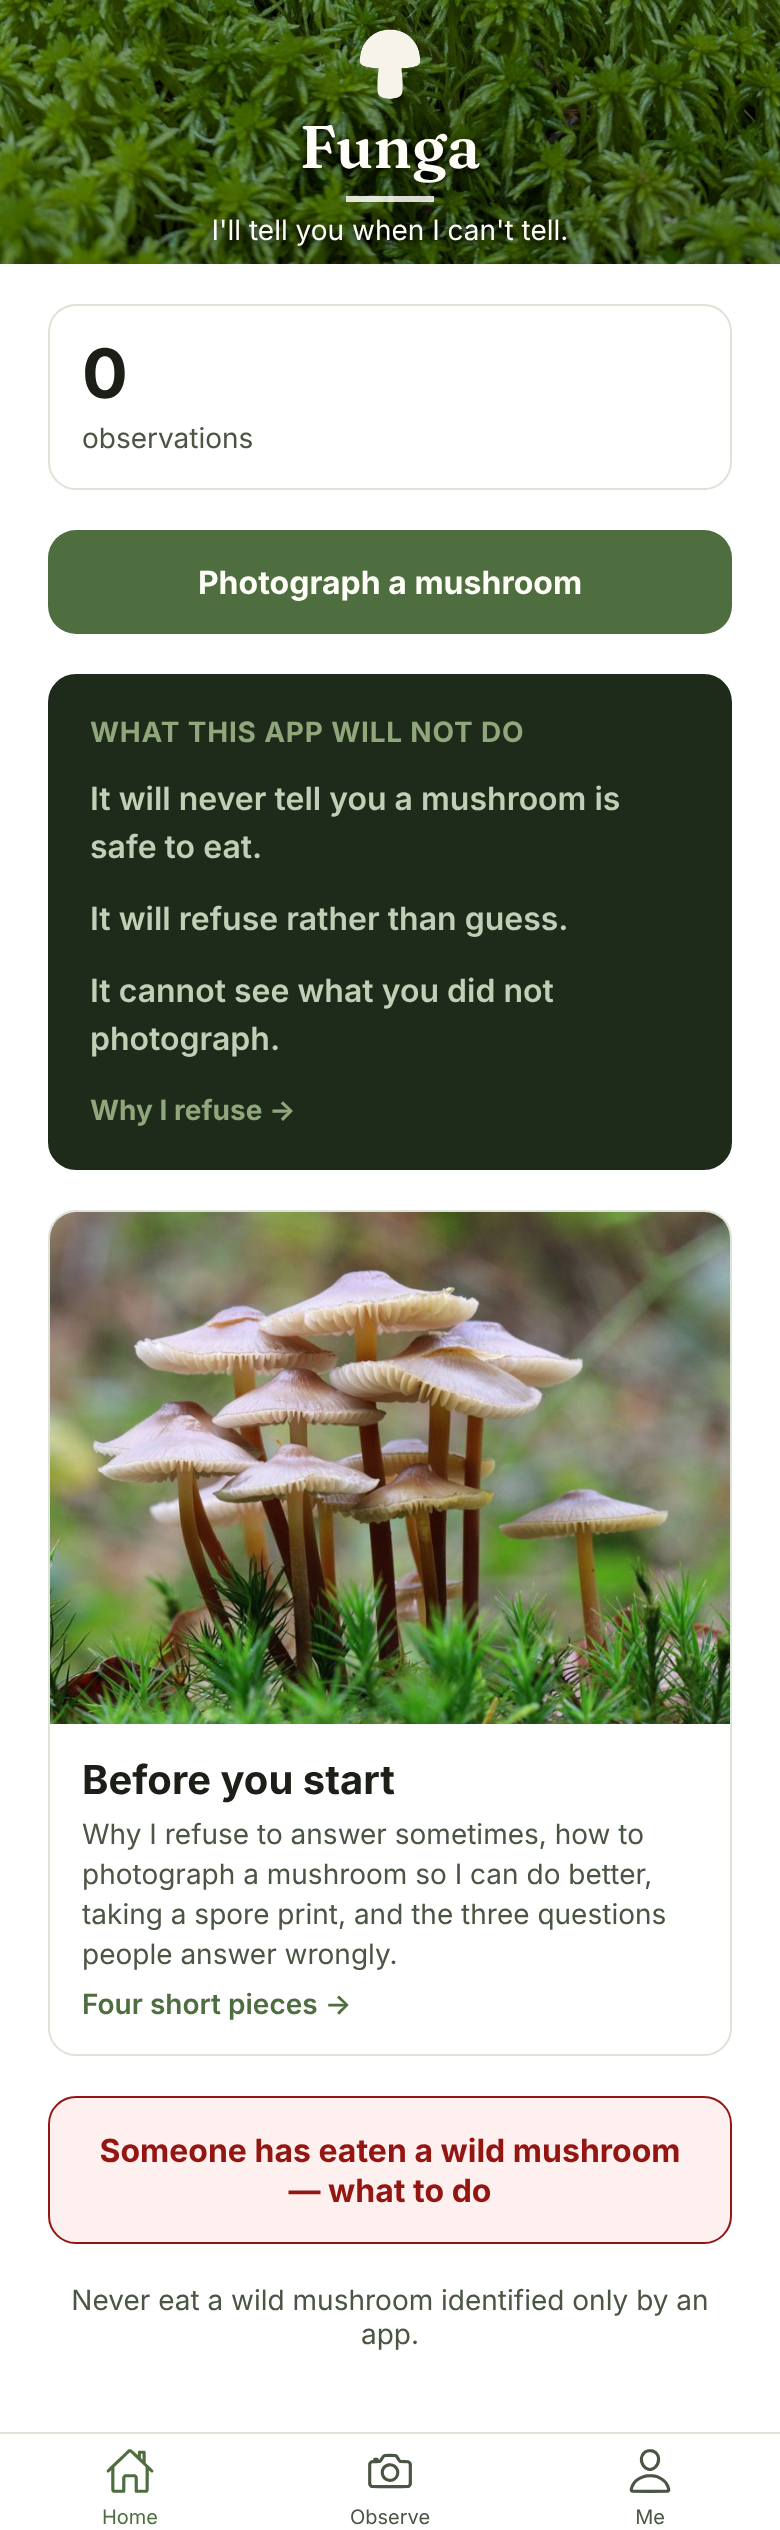
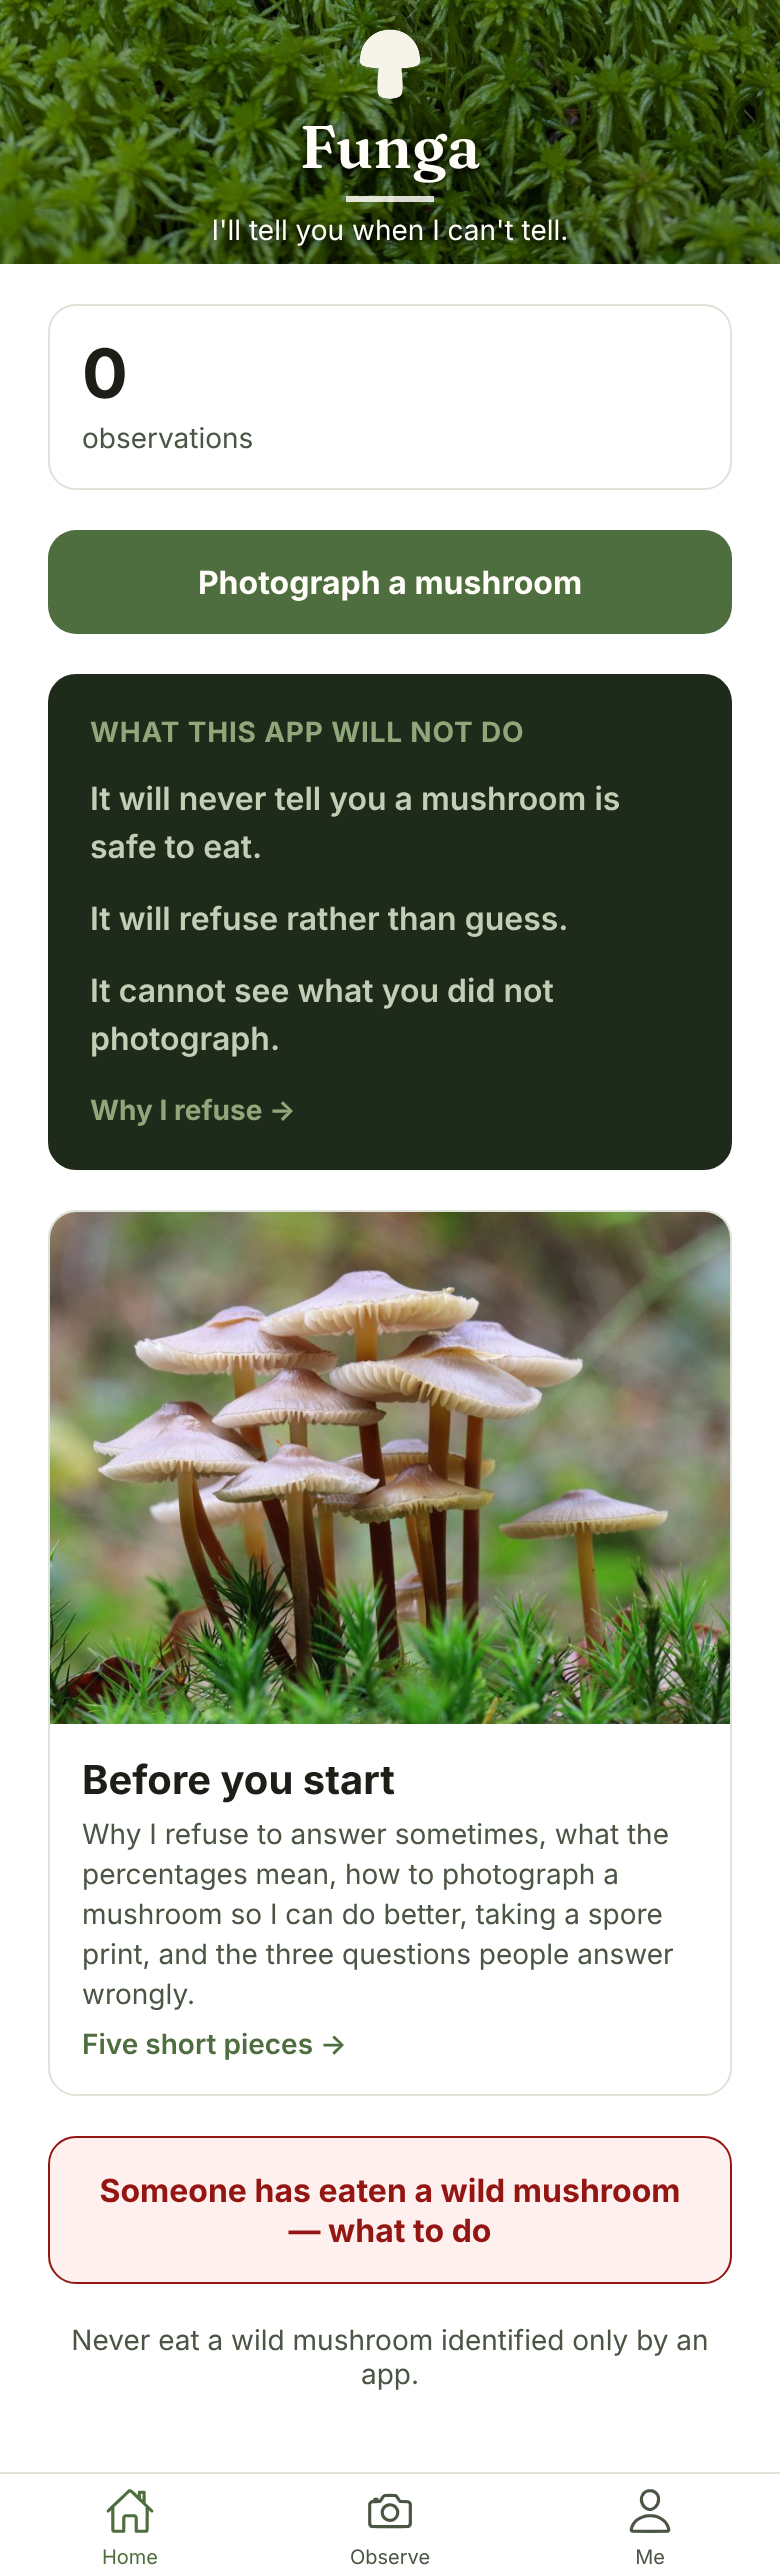
Add a fifth post on what the percentages mean
The number beside a species is the most misread thing in the app, and
nothing explained it. Three things in particular had no home: that the
listed percentages do not add to 100, that they are uncalibrated right
now and the ordering is the part to trust, and that a deadly species
holding 1% triggers the full warning at any rank -- the one number on
the screen whose size is not the point.

Placed second, after `why-i-refuse`. The order is pedagogical: what I
will say, then what the numbers beside it mean, then three ways to give
me more to go on.

Two figures in it are hand-kept copies of live defaults, which is the
fault `cap_surface`'s safety note shipped in prose -- four deadly
species where it contradicts five. `server/tests/test_learn_posts.py`
reads `dangerous_mass_threshold` from safety.py and `target_precision`
from calibrate.py and requires the post to agree, restating no expected
value of its own. Confirmed failing on 0.02 and 0.90 rather than
assumed to.

No photograph: the five frames were allocated before this was written,
and borrowing another post's would duplicate a card on the same screen.
The index was text-led before it had photographs at all, so the card
renders without one -- guarded in LearnScreen, because an unmapped slug
otherwise leaves a 256pt hole that reads as an image that failed to
load. A test pins the guard, a second allows at most one such post
before two text cards stop looking deliberate, and the asset checks now
[…]

diff --git a/app/test/content.test.ts b/app/test/content.test.ts
@@ -103,9 +103,12 @@ describe('rule 1 over everything a Learn reader sees', () => {
 describe('the posts themselves', () => {
   const slugs = POSTS.map((p) => p.slug);
 
-  it('ships the four that need no mycologist', () => {
+  it('ships the ones that need no mycologist, in reading order', () => {
+    // Order is pedagogical and not alphabetical: what I will say, then what
+    // the numbers beside it mean, then three ways to give me more to go on.
     expect(slugs).toEqual([
       'why-i-refuse',
+      'what-the-percentages-mean',
       'photographing-a-mushroom',
       'spore-prints',
       'answers-that-mislead-me',
@@ -141,24 +144,47 @@ describe('the posts themselves', () => {
 
 describe('the card photographs', () => {
   const learn = readFileSync(resolve(ROOT, 'src/screens/LearnScreen.tsx'), 'utf8');
+  const mapped = [...learn.matchAll(/'([a-z-]+)': require\('\.\.\/\.\.\/assets\/learn\//g)]
+    .map((m) => m[1]);
 
-  it('gives every post an image that exists on disk', () => {
+  it('backs every mapped slug with a file that exists on disk', () => {
     // A missing asset stops an Expo build, which is late. Same reason
     // icons.test.ts checks the icon set rather than trusting the build.
-    for (const post of POSTS) {
-      expect(learn, `no image mapped for ${post.slug}`).toContain(`'${post.slug}': require(`);
+    //
+    // A post is allowed to have NO entry: the index was text-led before it
+    // had photographs at all, and a post written after the frames were
+    // allocated waits for one rather than borrowing another post's. What is
+    // forbidden is a mapping with nothing behind it.
+    for (const slug of mapped) {
       expect(
-        existsSync(resolve(ROOT, `assets/learn/${post.slug}.jpg`)),
-        `assets/learn/${post.slug}.jpg is missing — run scripts/build_learn_images.py`,
+        existsSync(resolve(ROOT, `assets/learn/${slug}.jpg`)),
+        `assets/learn/${slug}.jpg is missing — run scripts/build_learn_images.py`,
       ).toBe(true);
     }
     expect(existsSync(resolve(ROOT, 'assets/learn/home.jpg'))).toBe(true);
   });
 
+  it('renders no photograph box for a post that has none', () => {
+    // Without the guard an unmapped slug leaves a 256pt hole in the card,
+    // which reads as an image that failed to load rather than as a post
+    // without one. Pinned at the source, because vitest cannot drive the
+    // RN renderer and this is exactly the class of fault that let three
+    // client bugs sit behind a green suite for months.
+    expect(learn).toContain('{IMAGES[post.slug] ? (');
+  });
+
+  it('leaves at most one post waiting for a frame', () => {
+    // Not a rule, a prompt: two text-led cards among photographs stops
+    // looking like one post that arrived early and starts looking like
+    // the index losing its photographs.
+    const unmapped = POSTS.filter((p) => !mapped.includes(p.slug));
+    expect(unmapped.map((p) => p.slug).join(', ')).not.toMatch(/,/);
+  });
+
   it('maps no slug that is not a post', () => {
-    const mapped = [...learn.matchAll(/'([a-z-]+)': require\('\.\.\/\.\.\/assets\/learn\//g)]
-      .map((m) => m[1]);
-    expect(mapped.sort()).toEqual(POSTS.map((p) => p.slug).sort());
+    for (const slug of mapped) {
+      expect(POSTS.map((p) => p.slug), `${slug} is mapped but is not a post`).toContain(slug);
+    }
   });
 
   it('ships no EXIF on any of them', () => {
@@ -166,7 +192,7 @@ describe('the card photographs', () => {
     // the one asset in this app that can publish where somebody was
     // standing. The build writes every card through a fresh image, so
     // there is no APP1 segment at all — not merely no GPS.
-    for (const slug of [...POSTS.map((p) => p.slug), 'home']) {
+    for (const slug of [...mapped, 'home']) {
       const bytes = readFileSync(resolve(ROOT, `assets/learn/${slug}.jpg`));
       expect(
         bytes.indexOf(Buffer.from('Exif\0\0', 'latin1')),
@@ -176,7 +202,7 @@ describe('the card photographs', () => {
   });
 
   it('keeps each card small enough to bundle', () => {
-    for (const slug of [...POSTS.map((p) => p.slug), 'home']) {
+    for (const slug of [...mapped, 'home']) {
       const kb = readFileSync(resolve(ROOT, `assets/learn/${slug}.jpg`)).length / 1024;
       expect(kb, `${slug}.jpg is ${Math.round(kb)} KB`).toBeLessThan(200);
     }

diff --git a/app/src/content/posts.ts b/app/src/content/posts.ts
@@ -106,6 +106,67 @@ export const POSTS: Post[] = [
   },
 
   {
+    slug: 'what-the-percentages-mean',
+    title: 'What the percentages mean',
+    standfirst:
+      'The number beside a species is not the chance that I am right, and the small ones matter far more than they look.',
+    blocks: [
+      {
+        kind: 'p',
+        text:
+          'Every photograph gets a score for every species I know, and those scores add up to one. What you see is the top few out of several hundred, so the percentages on your screen will not add up to 100. The rest is spread thinly over everything I did not think was worth showing you.',
+      },
+      { kind: 'heading', text: 'What a percentage is not' },
+      {
+        kind: 'p',
+        text:
+          'It is not a vote, and it is not a second opinion. Nobody has looked at your mushroom. It is one model’s score, produced by something that has only ever seen photographs, and it carries no more authority than that.',
+      },
+      { kind: 'heading', text: 'What it is, once it has been checked' },
+      {
+        kind: 'p',
+        text:
+          'A percentage is honest when it matches how often I turn out to be right. If I say 70% on a thousand photographs and I am right on about seven hundred of them, then the number means what it says. Making that true is a separate step from training: the model is tested against photographs it was never shown, and its numbers are stretched or squeezed until they line up with reality. That step is the whole difference between a confidence and a number that merely looks like one.',
+      },
+      { kind: 'heading', text: 'Right now, it has not been checked' },
+      {
+        kind: 'p',
+        text:
+          'Where that is the case I say so on the result itself, every time, rather than letting you find out later. Treat the ordering as real and the numbers as rough. The species at the top is still the one I think most likely; it is the distance between 60% and 80% that you should not read much into yet.',
+      },
+      { kind: 'heading', text: 'Why a small number can still stop me' },
+      {
+        kind: 'p',
+        text:
+          'This is the one worth remembering. If the species that can kill hold even 1% of the score between them, I show the full warning — at any position in the list, including places too far down for you to see. Rounding a one-in-a-hundred chance of a lethal mushroom down to nothing is the single piece of arithmetic this app will not do.',
+      },
+      {
+        kind: 'aside',
+        text:
+          'So a dangerous species sitting at 1% is not me being twitchy. It is the one number on the screen whose size is not the point.',
+      },
+      { kind: 'heading', text: 'Why the leader can be well ahead and I still will not name it' },
+      {
+        kind: 'p',
+        text:
+          'A species can lead on 57% and get no name from me, because something that can kill is holding 24% behind it. The question I am answering is not whether the leader is ahead of the others. It is whether anything dangerous is still in play.',
+      },
+      { kind: 'heading', text: 'Why I sometimes name nothing at all' },
+      {
+        kind: 'p',
+        text:
+          'There is a bar, and it is set so that when I do commit to a species I am right about 95 times in 100. Below the bar I decline and ask for more instead. That is why refusals are common rather than rare: the bar is where it is on purpose, and dropping it would buy you more names at the price of more wrong ones.',
+      },
+      { kind: 'heading', text: 'What moves a percentage' },
+      {
+        kind: 'p',
+        text:
+          'Answering a question — but not in the way most people expect. Telling me something that matches a species does not push it up. It pushes down every species that cannot show what you described, and whatever is left rises because the rest fell. That is also why a guessed answer is not free, which is its own piece further on.',
+      },
+    ],
+  },
+
+  {
     slug: 'photographing-a-mushroom',
     title: 'Photographing a mushroom',
     standfirst:

diff --git a/app/src/screens/LearnScreen.tsx b/app/src/screens/LearnScreen.tsx
@@ -30,7 +30,12 @@ import { theme } from '../lib/theme';
  *
  * What rules a frame out is not the species but the composition: no
  * mushroom held in a hand, which is a picking gesture, and nothing lit
- * as a portrait of produce. These four are all in situ where they grew.
+ * as a portrait of produce. These are all in situ where they grew.
+ *
+ * A post may have no entry here. `what-the-percentages-mean` was written
+ * after the five frames were allocated, so its card is text-led until
+ * Martin sends one -- which is what this index was originally, and the
+ * render below guards the gap rather than leaving a 256pt hole.
  */
 const IMAGES: Record<string, number> = {
   'why-i-refuse': require('../../assets/learn/why-i-refuse.jpg'),
@@ -43,7 +48,7 @@ export function LearnScreen({ navigation }: { navigation: any }) {
   return (
     <ScrollView style={styles.screen} contentContainerStyle={styles.content}>
       <Text style={styles.intro}>
-        Four things worth knowing before you point a camera at a mushroom.
+        Five things worth knowing before you point a camera at a mushroom.
         None of them tells you whether anything is safe to eat; this app
         has no such category in it.
       </Text>
@@ -56,12 +61,14 @@ export function LearnScreen({ navigation }: { navigation: any }) {
           accessibilityRole="button"
           accessibilityLabel={`${post.title}. ${post.standfirst}`}
         >
-          <Image
-            source={IMAGES[post.slug]}
-            style={styles.cardPhoto}
-            resizeMode="cover"
-            accessible={false}
-          />
+          {IMAGES[post.slug] ? (
+            <Image
+              source={IMAGES[post.slug]}
+              style={styles.cardPhoto}
+              resizeMode="cover"
+              accessible={false}
+            />
+          ) : null}
           <View style={styles.cardText}>
             <Text style={styles.cardTitle}>{post.title}</Text>
             <Text style={styles.cardStandfirst}>{post.standfirst}</Text>

diff --git a/app/src/screens/HomeScreen.tsx b/app/src/screens/HomeScreen.tsx
@@ -152,7 +152,7 @@ export function HomeScreen({ navigation }: { navigation: any }) {
         style={styles.learn}
         onPress={() => navigation.navigate('Learn')}
         accessibilityRole="button"
-        accessibilityLabel="Before you start. Four short pieces on photographing and reading mushrooms."
+        accessibilityLabel="Before you start. Five short pieces on photographing and reading mushrooms."
       >
         {/* `width: '100%'` with a real height -- see `learnPhoto` for
             why neither the absoluteFill-with-undefined idiom nor
@@ -166,11 +166,11 @@ export function HomeScreen({ navigation }: { navigation: any }) {
         <View style={styles.learnText}>
           <Text style={styles.learnHeading}>Before you start</Text>
           <Text style={styles.learnBody}>
-            Why I refuse to answer sometimes, how to photograph a mushroom
-            so I can do better, taking a spore print, and the three
-            questions people answer wrongly.
+            Why I refuse to answer sometimes, what the percentages mean,
+            how to photograph a mushroom so I can do better, taking a spore
+            print, and the three questions people answer wrongly.
           </Text>
-          <Text style={styles.learnMore}>Four short pieces →</Text>
+          <Text style={styles.learnMore}>Five short pieces →</Text>
         </View>
       </Pressable>
 

diff --git a/server/tests/test_learn_posts.py b/server/tests/test_learn_posts.py
@@ -1,0 +1,85 @@
+"""The two numbers the percentages post states are copies of live defaults.
+
+`test_character_guidance.py` is the precedent and the reason: a count
+written into prose is a hand-kept copy of a fact that lives in the code,
+and this project has already shipped one that was wrong -- `cap_surface`'s
+safety note said four deadly species when it contradicts five, in the one
+sentence written to warn about it.
+
+`what-the-percentages-mean` tells a beginner two numbers that decide what
+they see: the share of probability a deadly species needs before the full
+warning fires, and how often the app is right when it does commit to a
+species. Both are defaults in code that nothing stops anybody tuning. No
+expected value is restated below -- each is read from the source that owns
+it, so moving the default fails the test that owns the sentence.
+"""
+
+from __future__ import annotations
+
+import re
+from pathlib import Path
+
+import pytest
+
+ROOT = Path(__file__).resolve().parents[2]
+POSTS = ROOT / "app" / "src" / "content" / "posts.ts"
+SAFETY = ROOT / "server" / "app" / "safety.py"
+CALIBRATE = ROOT / "ml" / "fungi_ml" / "calibrate.py"
+
+
+def _post(slug: str) -> str:
+    """The one post's text, flattened. Read as source rather than imported:
+    `ml/` and the client are separate packages with no import path to here,
+    and a test that cannot run is not a guard."""
+    body = POSTS.read_text(encoding="utf-8")
+    start = body.index(f"slug: '{slug}'")
+    nxt = body.find("    slug: '", start + 1)
+    return re.sub(r"\s+", " ", body[start : nxt if nxt != -1 else len(body)])
+
+
+@pytest.fixture(scope="module")
+def percentages() -> str:
+    return _post("what-the-percentages-mean")
+
+
+def test_the_post_exists_at_all(percentages: str) -> None:
+    assert "What the percentages mean" in percentages
+
+
+def test_it_states_the_mass_threshold_the_safety_layer_actually_uses(
+    percentages: str,
+) -> None:
+    """Rule 3 is the post's whole middle section, and it quotes the figure."""
+    match = re.search(
+        r"dangerous_mass_threshold: float = ([\d.]+)", SAFETY.read_text(encoding="utf-8")
+    )
+    assert match, "safety.py no longer declares dangerous_mass_threshold"
+    stated = f"{float(match.group(1)):.0%}"
+    assert stated in percentages, (
+        f"the post must say {stated}; safety.py warns from "
+        f"{match.group(1)} of the probability mass"
+    )
+
+
+def test_it_states_the_precision_the_naming_bar_is_fitted_for(
+    percentages: str,
+) -> None:
+    """'I am right about N times in 100' is the bar, not a round number."""
+    match = re.search(
+        r"target_precision: float = ([\d.]+)", CALIBRATE.read_text(encoding="utf-8")
+    )
+    assert match, "calibrate.py no longer declares target_precision"
+    stated = f"{round(float(match.group(1)) * 100)} times in 100"
+    assert stated in percentages, (
+        f"the post must say '{stated}'; the threshold is fitted for "
+        f"precision {match.group(1)}"
+    )
+
+
+def test_it_does_not_present_the_percentages_as_calibrated(
+    percentages: str,
+) -> None:
+    """`calibrated` is false wherever the model is, and the post is bundled
+    into the client where no health check reaches it. So it has to carry its
+    own caveat rather than inherit one."""
+    assert "has not been checked" in percentages
